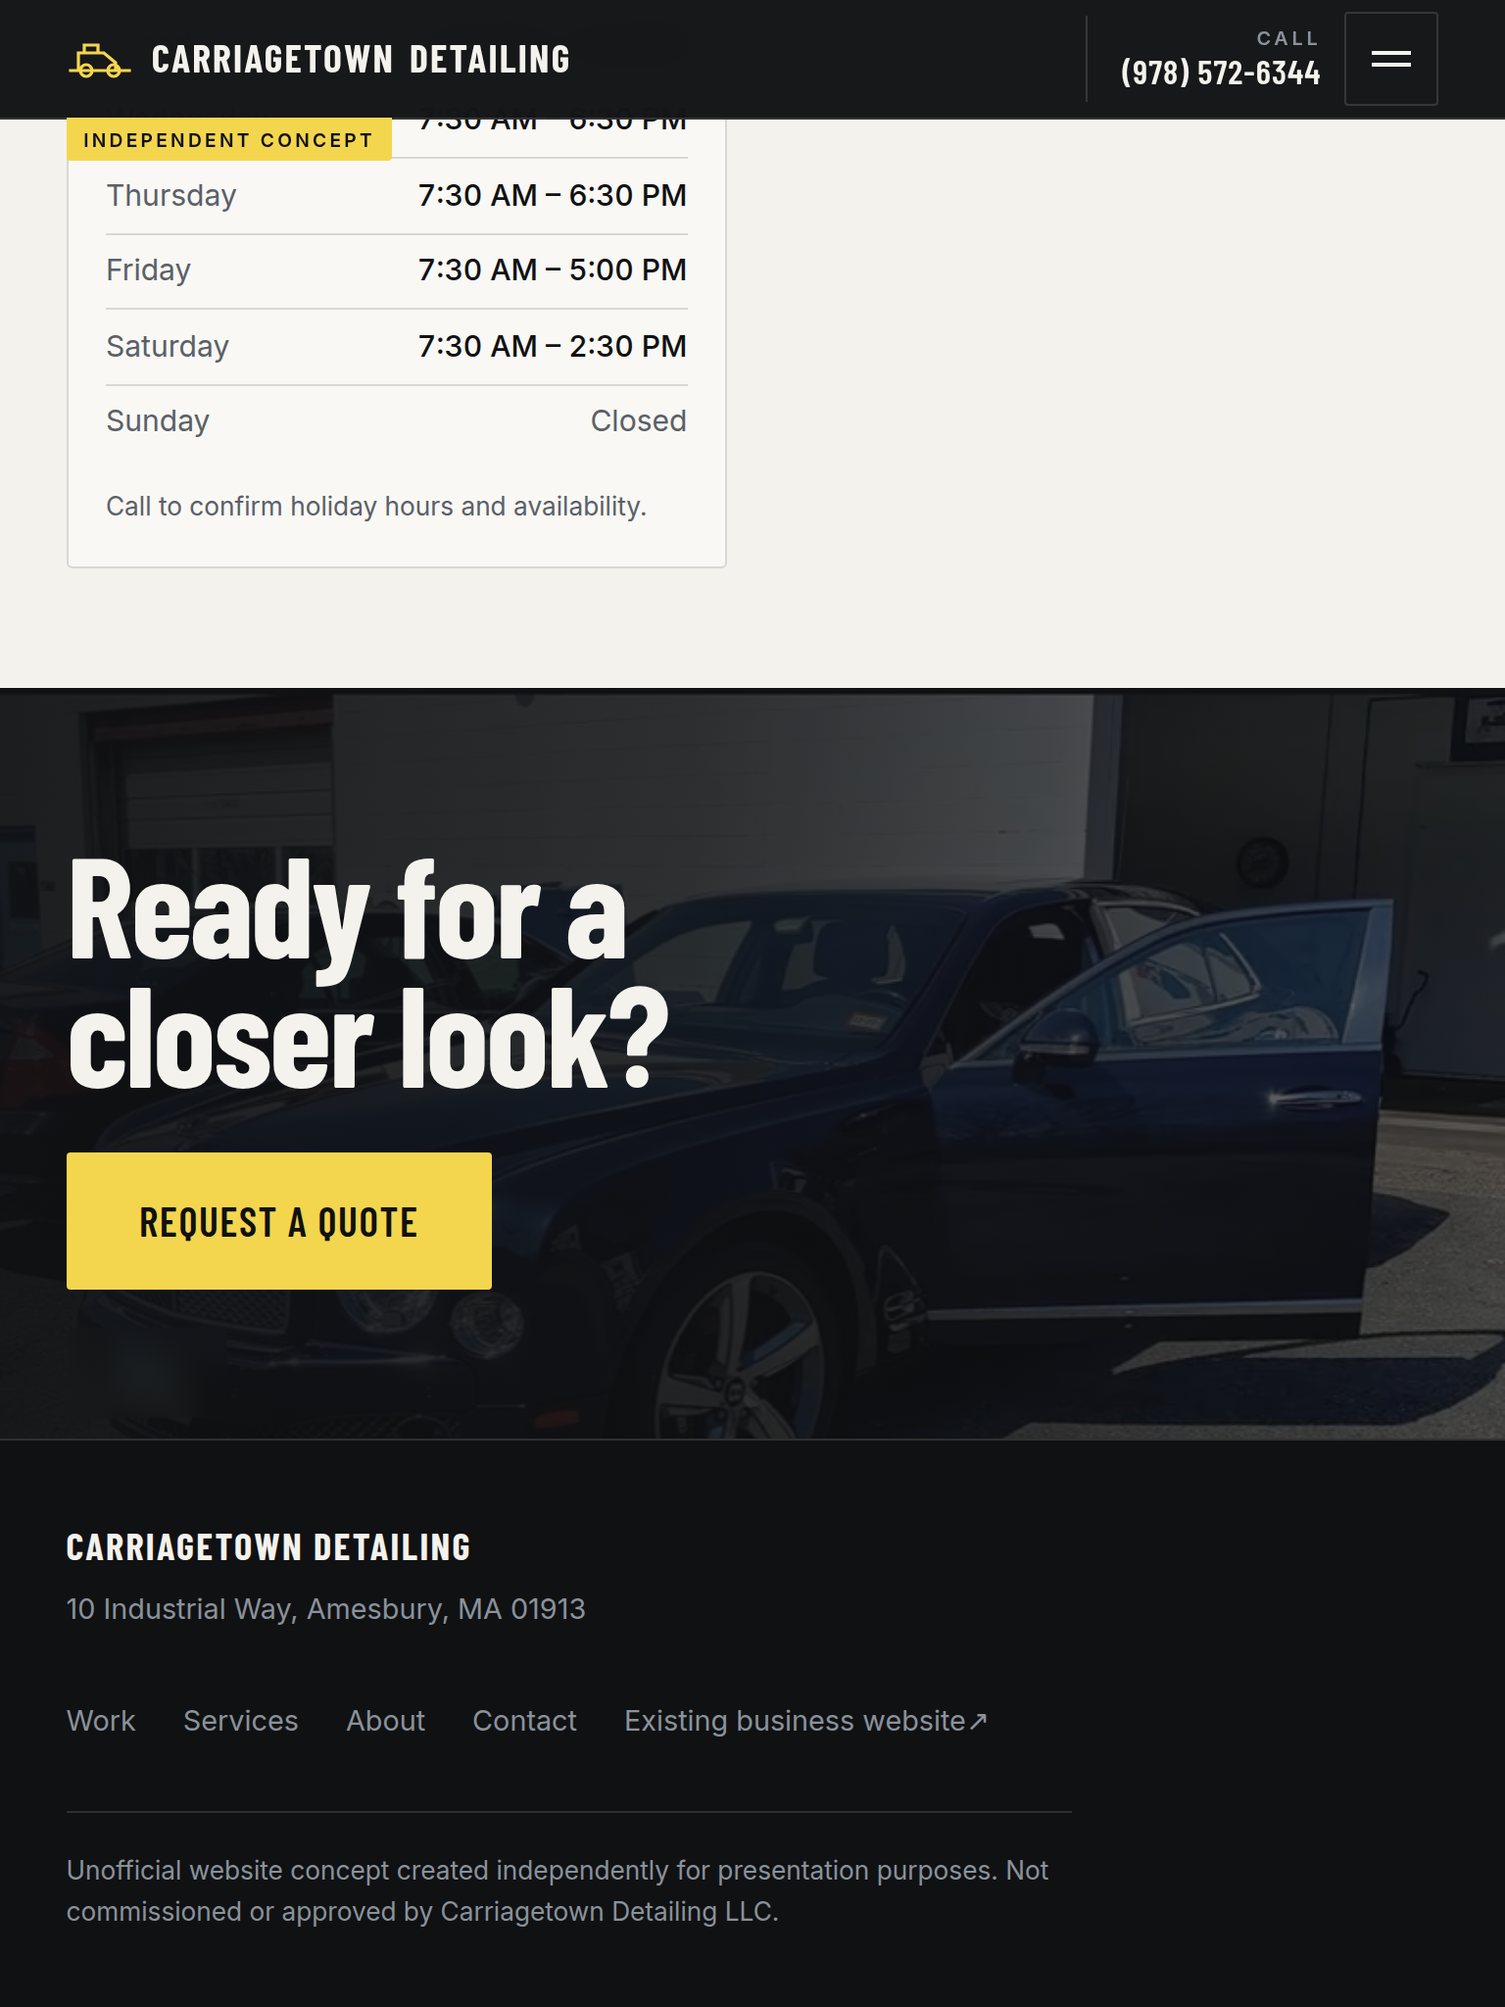
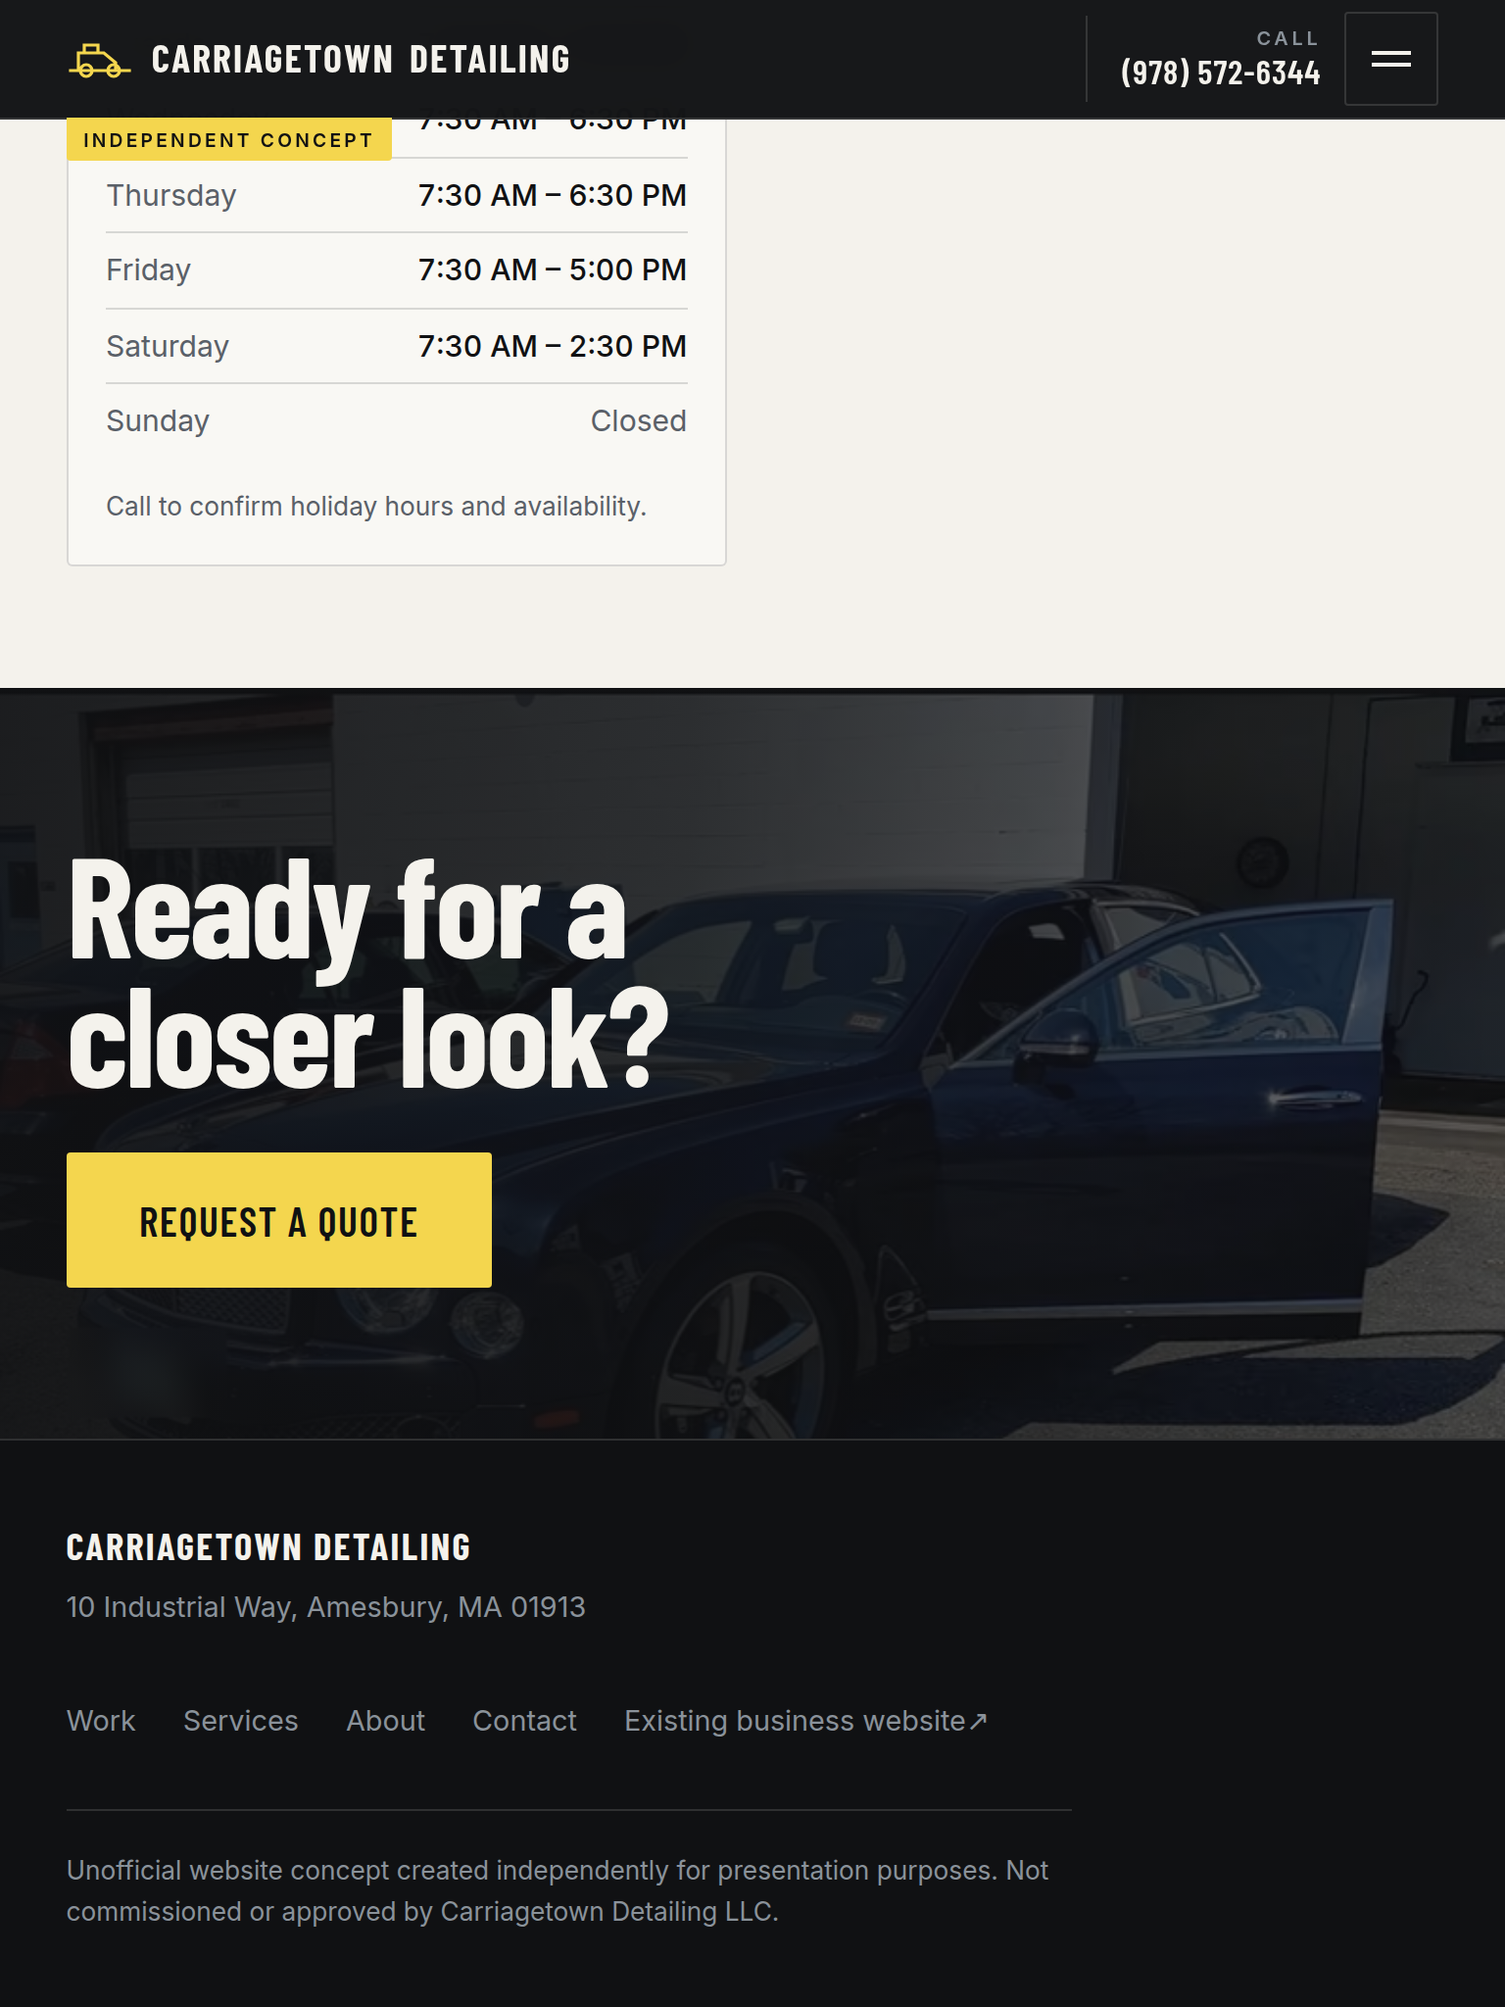
Remove the sticky call bar; make the numbers reliably actionable
The sticky mobile call/text bar is gone, along with its styles and the body
padding that reserved its height. Contact actions now live only in the contact
section, where they read as part of the page rather than a floating overlay.

The tel: and sms: links were always correct. What blocked them in the preview
is the artifact sandbox: a sandboxed iframe swallows top-level navigation to
those schemes. Both links now carry target="_top" so the click reaches the top
browsing context, which is also harmless once the site is deployed standalone.

Because no attribute can guarantee a dialler in every context - desktop
browsers without a handler, locked-down previews - each number now has a Copy
control beside it. Real clipboard write with an execCommand fallback, a
two-second "Copied" state, and an aria-live announcement. It reports failure
honestly rather than claiming success.

Verified: clipboard receives (978) 572-6344, the label reverts after two
seconds, both links carry target="_top", no call bar in the DOM, body padding
back to zero, and every control is at least 44px.

QA: P0 0, P1 0 across all breakpoints, reduced-motion and no-JS.

Claude-Session: https://claude.ai/code/session_01RpNYQj1Uc5bsCiFS8wgXHH

Changed region(s): [[0.1562, 0.7812, 0.375, 0.8125], [0.0938, 0.7812, 0.125, 0.8125]]

diff --git a/artifact/carriagetown-concept.html b/artifact/carriagetown-concept.html
@@ -62,7 +62,6 @@
   --pad:clamp(1.15rem,4.4vw,3.5rem);
   --maxw:1280px;
   --hdr:60px;
-  --bar:0px;                /* mobile call bar height, set at breakpoint */
   --ease:cubic-bezier(.22,.61,.36,1);
 }
 
@@ -74,7 +73,6 @@ body{
   font-family:var(--body);font-size:clamp(1rem,.96rem + .2vw,1.075rem);
   line-height:1.6;-webkit-font-smoothing:antialiased;
   overflow-x:clip;
-  padding-bottom:var(--bar);
 }
 img,picture,svg{display:block;max-width:100%;}
 h1,h2,h3,p,dl,dd,figure,ol,ul{margin:0;}
@@ -484,6 +482,20 @@ address{font-style:normal;}
   display:inline-flex;align-items:center;min-height:44px;
 }
 .numbers__item dd a:hover{color:#9a8420;}
+.visually-hidden{
+  position:absolute;width:1px;height:1px;margin:-1px;padding:0;
+  overflow:hidden;clip:rect(0 0 0 0);white-space:nowrap;border:0;
+}
+.copy{
+  margin-left:.85rem;flex:none;cursor:pointer;
+  min-height:44px;padding:.4rem .8rem;
+  font-size:.68rem;font-weight:700;letter-spacing:.13em;text-transform:uppercase;
+  color:var(--steel-dk);background:transparent;
+  border:1px solid rgba(16,17,19,.22);border-radius:2px;
+  transition:border-color .16s var(--ease),color .16s var(--ease),background-color .16s var(--ease);
+}
+.copy:hover{border-color:var(--ink);color:var(--ink);}
+.copy.is-done{background:var(--signal);border-color:var(--signal);color:var(--ink);}
 .numbers__hint{font-size:.82rem;color:var(--steel-dk);margin-top:.5rem;}
 
 .contact__panel{
@@ -555,25 +567,6 @@ address{font-style:normal;}
   max-width:62ch;padding-top:1.2rem;border-top:1px solid var(--hair);
 }
 
-/* ------------------------------- CALL BAR ------------------------------- */
-.callbar{
-  position:fixed;left:0;right:0;bottom:0;z-index:90;display:none;
-  background:rgba(16,17,19,.97);border-top:1px solid var(--hair);
-  padding-bottom:env(safe-area-inset-bottom);
-}
-@supports (backdrop-filter:blur(8px)){.callbar{backdrop-filter:blur(10px);}}
-.callbar__btn{
-  flex:1;display:flex;flex-direction:column;align-items:center;justify-content:center;
-  gap:.05rem;min-height:56px;text-decoration:none;padding:.5rem .6rem;
-}
-.callbar__btn span{
-  font-family:var(--display);font-weight:700;font-size:1.06rem;
-  letter-spacing:.11em;text-transform:uppercase;line-height:1.1;
-}
-.callbar__btn small{font-size:.72rem;color:var(--steel);line-height:1.2;}
-.callbar__btn--text{background:var(--signal);color:var(--ink);}
-.callbar__btn--text small{color:rgba(16,17,19,.72);}
-.callbar__btn--call{border-left:1px solid var(--hair);}
 
 /* ==========================================================================
    RESPONSIVE
@@ -598,12 +591,10 @@ address{font-style:normal;}
 }
 
 @media (max-width:759px){
-  :root{--bar:58px;}
   .hero{padding-top:1.5rem;}
   .hero__body{margin-bottom:1.4rem;font-size:1rem;}
   .hero__title{margin-bottom:1rem;}
   .hero__inner{gap:1.5rem;}
-  .callbar{display:flex;}
   .header-tel{padding-left:.8rem;}
   .header-tel__label{display:none;}
   .header-tel__num{font-size:1rem;}
@@ -759,7 +750,7 @@ address{font-style:normal;}
 
 /* Printing keeps the disclaimer visible */
 @media print{
-  .callbar,.site-nav,.nav-toggle{display:none !important;}
+  .site-nav,.nav-toggle{display:none !important;}
   body{background:#fff;color:#000;}
 }
 
@@ -789,7 +780,7 @@ address{font-style:normal;}
     </nav>
 
     <div class="site-header__actions">
-      <a class="header-tel" href="tel:+19785726344">
+      <a class="header-tel" href="tel:+19785726344" target="_top">
         <span class="header-tel__label">Call</span>
         <span class="header-tel__num">(978) 572-6344</span>
       </a>
@@ -1087,20 +1078,23 @@ address{font-style:normal;}
 
     <div class="contact__grid">
       <div class="contact__actions">
-        <a class="btn btn--primary btn--block" href="sms:+19784904139">Text for a quote</a>
-        <a class="btn btn--outline btn--block" href="tel:+19785726344">Call the shop</a>
+        <a class="btn btn--primary btn--block" href="sms:+19784904139" target="_top">Text for a quote</a>
+        <a class="btn btn--outline btn--block" href="tel:+19785726344" target="_top">Call the shop</a>
 
         <dl class="numbers">
           <div class="numbers__item">
             <dt>Text</dt>
-            <dd><a href="sms:+19784904139">(978) 490-4139</a></dd>
+            <dd><a href="sms:+19784904139" target="_top">(978) 490-4139</a></dd>
+            <button class="copy" type="button" data-copy="(978) 490-4139" aria-label="Copy the text number">Copy</button>
           </div>
           <div class="numbers__item">
             <dt>Call</dt>
-            <dd><a href="tel:+19785726344">(978) 572-6344</a></dd>
+            <dd><a href="tel:+19785726344" target="_top">(978) 572-6344</a></dd>
+            <button class="copy" type="button" data-copy="(978) 572-6344" aria-label="Copy the phone number">Copy</button>
           </div>
         </dl>
         <p class="numbers__hint">Two different numbers — the first is for text messages, the second for calls.</p>
+        <p class="visually-hidden" role="status" aria-live="polite" id="copy-status"></p>
       </div>
 
       <div class="contact__panel">
@@ -1164,12 +1158,6 @@ address{font-style:normal;}
     <p class="disclaimer">Unofficial website concept created independently for presentation purposes. Not commissioned or approved by Carriagetown Detailing LLC.</p>
   </div>
 </footer>
-
-<!-- Sticky mobile call / text bar -->
-<div class="callbar" role="group" aria-label="Contact Carriagetown Detailing">
-  <a class="callbar__btn callbar__btn--text" href="sms:+19784904139"><span>Text</span><small>(978) 490-4139</small></a>
-  <a class="callbar__btn callbar__btn--call" href="tel:+19785726344"><span>Call</span><small>(978) 572-6344</small></a>
-</div>
 
 <script>/*!
  * GSAP 3.15.0
@@ -1259,6 +1247,48 @@ address{font-style:normal;}
     // Returning to desktop width must never leave a stale open panel.
     window.matchMedia('(min-width: 900px)').addEventListener('change', function (e) {
       if (e.matches) setOpen(false);
+    });
+  })();
+
+  /* ------------------------------------------------ copy a phone number */
+  (function copyNumbers() {
+    var buttons = [].slice.call(document.querySelectorAll('.copy'));
+    if (!buttons.length) return;
+    var status = document.getElementById('copy-status');
+
+    function fallbackCopy(text) {
+      var ta = document.createElement('textarea');
+      ta.value = text;
+      ta.setAttribute('readonly', '');
+      ta.style.cssText = 'position:absolute;left:-9999px;top:0;';
+      document.body.appendChild(ta);
+      ta.select();
+      var ok = false;
+      try { ok = document.execCommand('copy'); } catch (e) { ok = false; }
+      document.body.removeChild(ta);
+      return ok;
+    }
+
+    buttons.forEach(function (btn) {
+      btn.addEventListener('click', function () {
+        var text = btn.getAttribute('data-copy');
+        var done = function (ok) {
+          btn.textContent = ok ? 'Copied' : 'Select it';
+          btn.classList.toggle('is-done', ok);
+          if (status) status.textContent = ok ? text + ' copied' : 'Copy failed — select the number manually';
+          window.setTimeout(function () {
+            btn.textContent = 'Copy';
+            btn.classList.remove('is-done');
+          }, 2000);
+        };
+        if (navigator.clipboard && navigator.clipboard.writeText) {
+          navigator.clipboard.writeText(text)
+            .then(function () { done(true); })
+            .catch(function () { done(fallbackCopy(text)); });
+        } else {
+          done(fallbackCopy(text));
+        }
+      });
     });
   })();
 

diff --git a/public/assets/css/site.css b/public/assets/css/site.css
@@ -29,7 +29,6 @@
   --pad:clamp(1.15rem,4.4vw,3.5rem);
   --maxw:1280px;
   --hdr:60px;
-  --bar:0px;                /* mobile call bar height, set at breakpoint */
   --ease:cubic-bezier(.22,.61,.36,1);
 }
 
@@ -41,7 +40,6 @@ body{
   font-family:var(--body);font-size:clamp(1rem,.96rem + .2vw,1.075rem);
   line-height:1.6;-webkit-font-smoothing:antialiased;
   overflow-x:clip;
-  padding-bottom:var(--bar);
 }
 img,picture,svg{display:block;max-width:100%;}
 h1,h2,h3,p,dl,dd,figure,ol,ul{margin:0;}
@@ -451,6 +449,20 @@ address{font-style:normal;}
   display:inline-flex;align-items:center;min-height:44px;
 }
 .numbers__item dd a:hover{color:#9a8420;}
+.visually-hidden{
+  position:absolute;width:1px;height:1px;margin:-1px;padding:0;
+  overflow:hidden;clip:rect(0 0 0 0);white-space:nowrap;border:0;
+}
+.copy{
+  margin-left:.85rem;flex:none;cursor:pointer;
+  min-height:44px;padding:.4rem .8rem;
+  font-size:.68rem;font-weight:700;letter-spacing:.13em;text-transform:uppercase;
+  color:var(--steel-dk);background:transparent;
+  border:1px solid rgba(16,17,19,.22);border-radius:2px;
+  transition:border-color .16s var(--ease),color .16s var(--ease),background-color .16s var(--ease);
+}
+.copy:hover{border-color:var(--ink);color:var(--ink);}
+.copy.is-done{background:var(--signal);border-color:var(--signal);color:var(--ink);}
 .numbers__hint{font-size:.82rem;color:var(--steel-dk);margin-top:.5rem;}
 
 .contact__panel{
@@ -522,25 +534,6 @@ address{font-style:normal;}
   max-width:62ch;padding-top:1.2rem;border-top:1px solid var(--hair);
 }
 
-/* ------------------------------- CALL BAR ------------------------------- */
-.callbar{
-  position:fixed;left:0;right:0;bottom:0;z-index:90;display:none;
-  background:rgba(16,17,19,.97);border-top:1px solid var(--hair);
-  padding-bottom:env(safe-area-inset-bottom);
-}
-@supports (backdrop-filter:blur(8px)){.callbar{backdrop-filter:blur(10px);}}
-.callbar__btn{
-  flex:1;display:flex;flex-direction:column;align-items:center;justify-content:center;
-  gap:.05rem;min-height:56px;text-decoration:none;padding:.5rem .6rem;
-}
-.callbar__btn span{
-  font-family:var(--display);font-weight:700;font-size:1.06rem;
-  letter-spacing:.11em;text-transform:uppercase;line-height:1.1;
-}
-.callbar__btn small{font-size:.72rem;color:var(--steel);line-height:1.2;}
-.callbar__btn--text{background:var(--signal);color:var(--ink);}
-.callbar__btn--text small{color:rgba(16,17,19,.72);}
-.callbar__btn--call{border-left:1px solid var(--hair);}
 
 /* ==========================================================================
    RESPONSIVE
@@ -565,12 +558,10 @@ address{font-style:normal;}
 }
 
 @media (max-width:759px){
-  :root{--bar:58px;}
   .hero{padding-top:1.5rem;}
   .hero__body{margin-bottom:1.4rem;font-size:1rem;}
   .hero__title{margin-bottom:1rem;}
   .hero__inner{gap:1.5rem;}
-  .callbar{display:flex;}
   .header-tel{padding-left:.8rem;}
   .header-tel__label{display:none;}
   .header-tel__num{font-size:1rem;}
@@ -726,6 +717,6 @@ address{font-style:normal;}
 
 /* Printing keeps the disclaimer visible */
 @media print{
-  .callbar,.site-nav,.nav-toggle{display:none !important;}
+  .site-nav,.nav-toggle{display:none !important;}
   body{background:#fff;color:#000;}
 }

diff --git a/public/index.html b/public/index.html
@@ -62,7 +62,7 @@
     </nav>
 
     <div class="site-header__actions">
-      <a class="header-tel" href="tel:+19785726344">
+      <a class="header-tel" href="tel:+19785726344" target="_top">
         <span class="header-tel__label">Call</span>
         <span class="header-tel__num">(978) 572-6344</span>
       </a>
@@ -408,20 +408,23 @@
 
     <div class="contact__grid">
       <div class="contact__actions">
-        <a class="btn btn--primary btn--block" href="sms:+19784904139">Text for a quote</a>
-        <a class="btn btn--outline btn--block" href="tel:+19785726344">Call the shop</a>
+        <a class="btn btn--primary btn--block" href="sms:+19784904139" target="_top">Text for a quote</a>
+        <a class="btn btn--outline btn--block" href="tel:+19785726344" target="_top">Call the shop</a>
 
         <dl class="numbers">
           <div class="numbers__item">
             <dt>Text</dt>
-            <dd><a href="sms:+19784904139">(978) 490-4139</a></dd>
+            <dd><a href="sms:+19784904139" target="_top">(978) 490-4139</a></dd>
+            <button class="copy" type="button" data-copy="(978) 490-4139" aria-label="Copy the text number">Copy</button>
           </div>
           <div class="numbers__item">
             <dt>Call</dt>
-            <dd><a href="tel:+19785726344">(978) 572-6344</a></dd>
+            <dd><a href="tel:+19785726344" target="_top">(978) 572-6344</a></dd>
+            <button class="copy" type="button" data-copy="(978) 572-6344" aria-label="Copy the phone number">Copy</button>
           </div>
         </dl>
         <p class="numbers__hint">Two different numbers — the first is for text messages, the second for calls.</p>
+        <p class="visually-hidden" role="status" aria-live="polite" id="copy-status"></p>
       </div>
 
       <div class="contact__panel">
@@ -490,11 +493,6 @@
   </div>
 </footer>
 
-<!-- Sticky mobile call / text bar -->
-<div class="callbar" role="group" aria-label="Contact Carriagetown Detailing">
-  <a class="callbar__btn callbar__btn--text" href="sms:+19784904139"><span>Text</span><small>(978) 490-4139</small></a>
-  <a class="callbar__btn callbar__btn--call" href="tel:+19785726344"><span>Call</span><small>(978) 572-6344</small></a>
-</div>
 
 <script src="assets/js/gsap.min.js" defer></script>
 <script src="assets/js/ScrollTrigger.min.js" defer></script>

diff --git a/public/assets/js/site.js b/public/assets/js/site.js
@@ -64,6 +64,48 @@
     });
   })();
 
+  /* ------------------------------------------------ copy a phone number */
+  (function copyNumbers() {
+    var buttons = [].slice.call(document.querySelectorAll('.copy'));
+    if (!buttons.length) return;
+    var status = document.getElementById('copy-status');
+
+    function fallbackCopy(text) {
+      var ta = document.createElement('textarea');
+      ta.value = text;
+      ta.setAttribute('readonly', '');
+      ta.style.cssText = 'position:absolute;left:-9999px;top:0;';
+      document.body.appendChild(ta);
+      ta.select();
+      var ok = false;
+      try { ok = document.execCommand('copy'); } catch (e) { ok = false; }
+      document.body.removeChild(ta);
+      return ok;
+    }
+
+    buttons.forEach(function (btn) {
+      btn.addEventListener('click', function () {
+        var text = btn.getAttribute('data-copy');
+        var done = function (ok) {
+          btn.textContent = ok ? 'Copied' : 'Select it';
+          btn.classList.toggle('is-done', ok);
+          if (status) status.textContent = ok ? text + ' copied' : 'Copy failed — select the number manually';
+          window.setTimeout(function () {
+            btn.textContent = 'Copy';
+            btn.classList.remove('is-done');
+          }, 2000);
+        };
+        if (navigator.clipboard && navigator.clipboard.writeText) {
+          navigator.clipboard.writeText(text)
+            .then(function () { done(true); })
+            .catch(function () { done(fallbackCopy(text)); });
+        } else {
+          done(fallbackCopy(text));
+        }
+      });
+    });
+  })();
+
   /* --------------------------------------------------- hero entrance (1/2) */
   (function heroEntrance() {
     var fig = document.querySelector('[data-hero-figure]');
